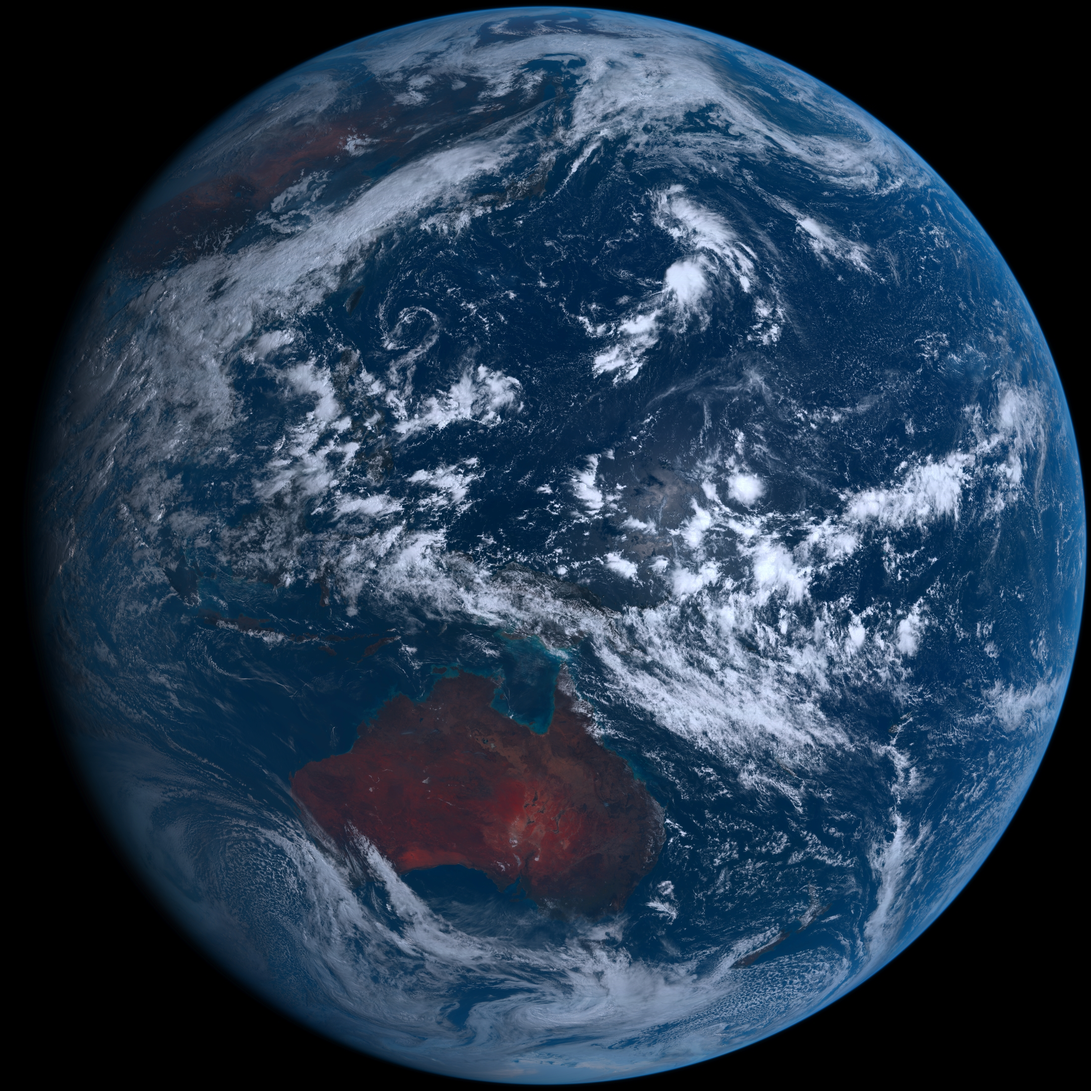
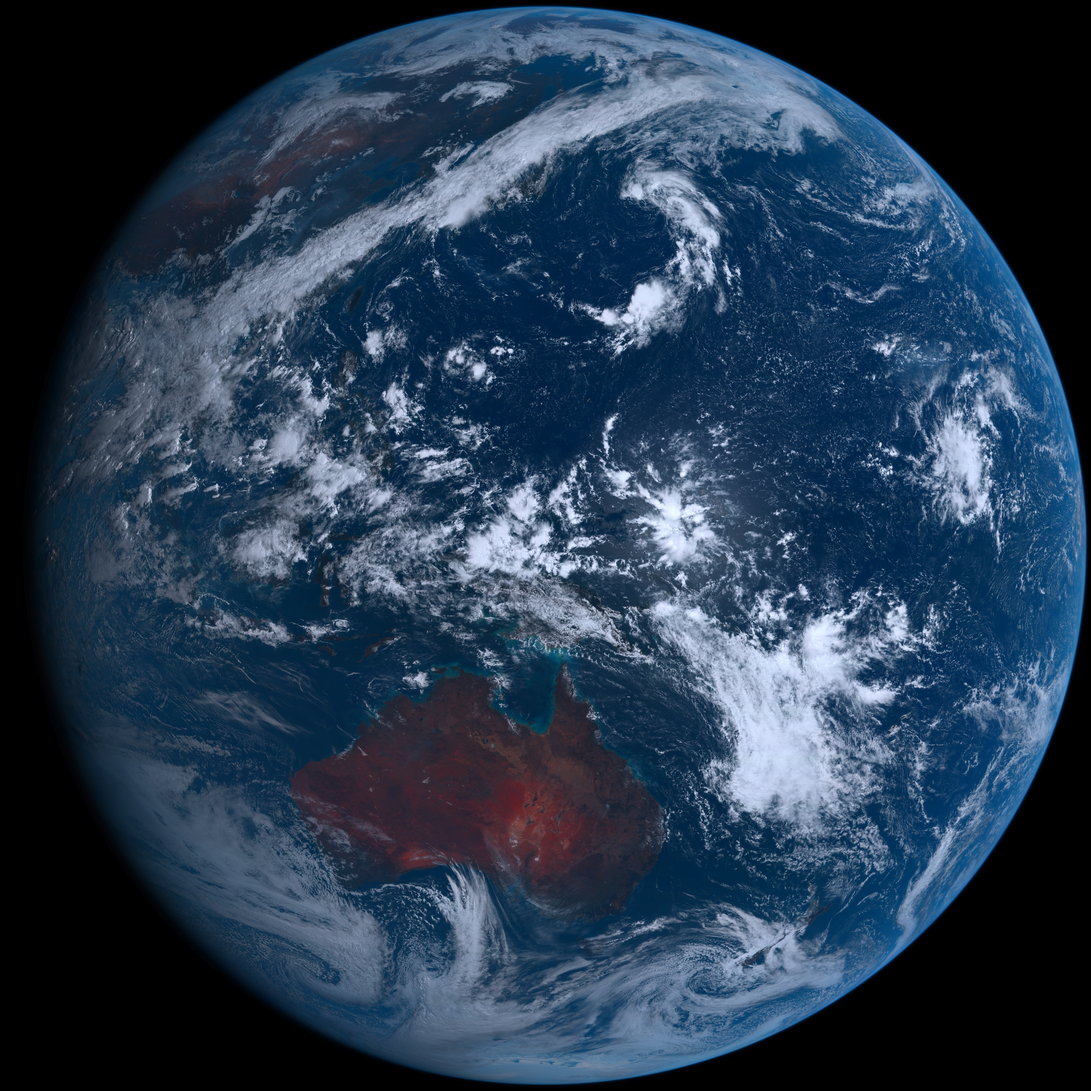
Thursday 09/14/2023 03:08 +00

diff --git a/README.md b/README.md
@@ -1,12 +1,12 @@
 # ps1
 
 - ### [BingWallpaper](https://github.com/milankomaj/ps1/wiki/BingWallpaper)  [![Generate Wallpapers Github README.md](https://github.com/milankomaj/ps1/actions/workflows/GenWall.yml/badge.svg?event=schedule)](https://github.com/milankomaj/ps1/actions/workflows/GenWall.yml)
-- ##### Wednesday 13/09/2023 03:07:40 +00
+- ##### Thursday 14/09/2023 03:07:46 +00
 <img src="BingWallpaper/latest.jpg" width="700" height="auto" title="👉  BingWallpaper  👈">
-Temples on Hemakuta Hill, Hampi, Karnataka, India (© Images of india/Alamy Stock Photo)
+Przewalski's horses, Hustai National Park, Mongolia (© Ondrej Prosicky/Shutterstock)
 
 - ### [Himawari](https://github.com/milankomaj/ps1/wiki/Himawari) [![Generate Wallpapers Github README.md](https://github.com/milankomaj/ps1/actions/workflows/GenWall.yml/badge.svg?event=schedule)](https://github.com/milankomaj/ps1/actions/workflows/GenWall.yml) [![Video](https://github.com/milankomaj/ps1/actions/workflows/video.yml/badge.svg?event=schedule)](https://github.com/milankomaj/ps1/actions/workflows/video.yml)
-- ##### Wednesday 13/09/2023 03:08:16 +00
+- ##### Thursday 14/09/2023 03:08:20 +00
 <img src="Himawari/latest.jpg" width="auto" height="371" title="👉  Himawari  👈"> <img src="Himawari/pifd/himawari_pifd.webp" width="auto" height="371"/>
 
 
